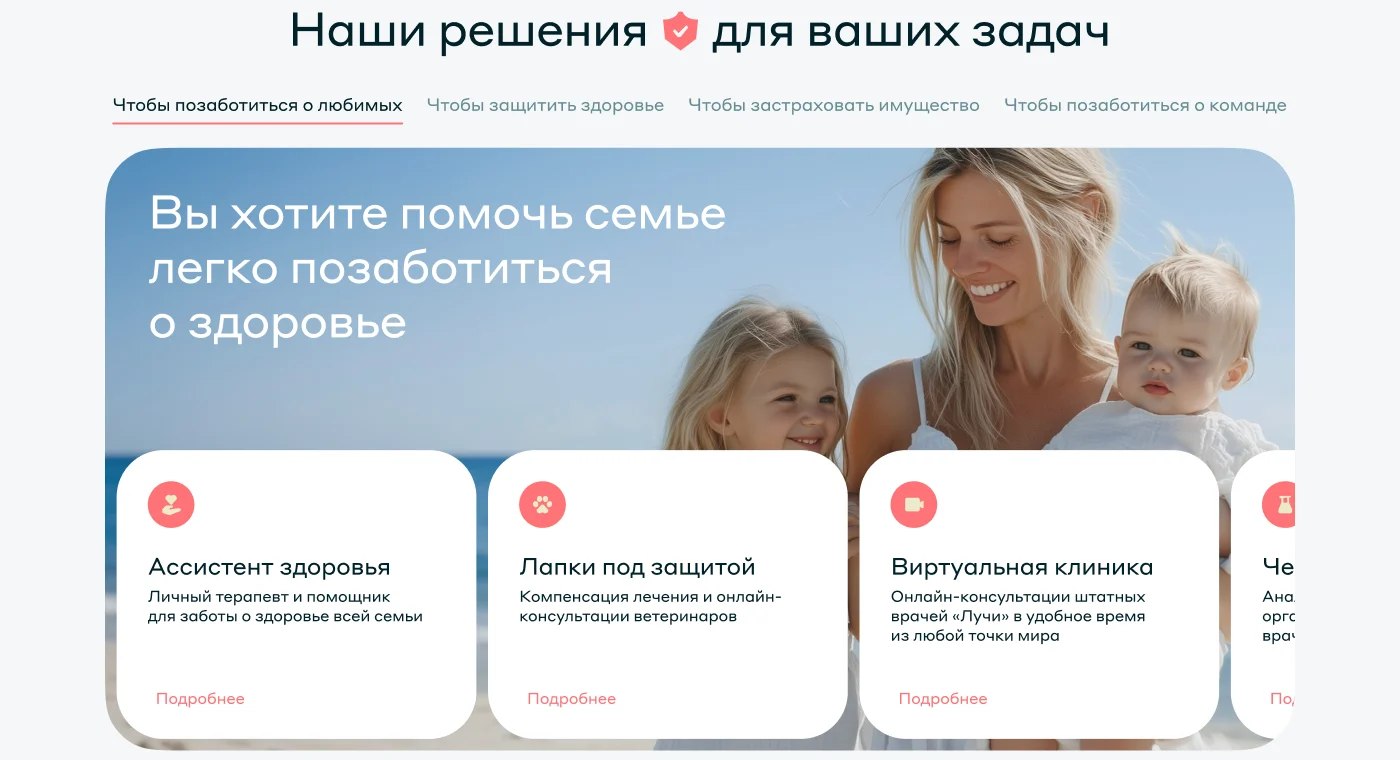
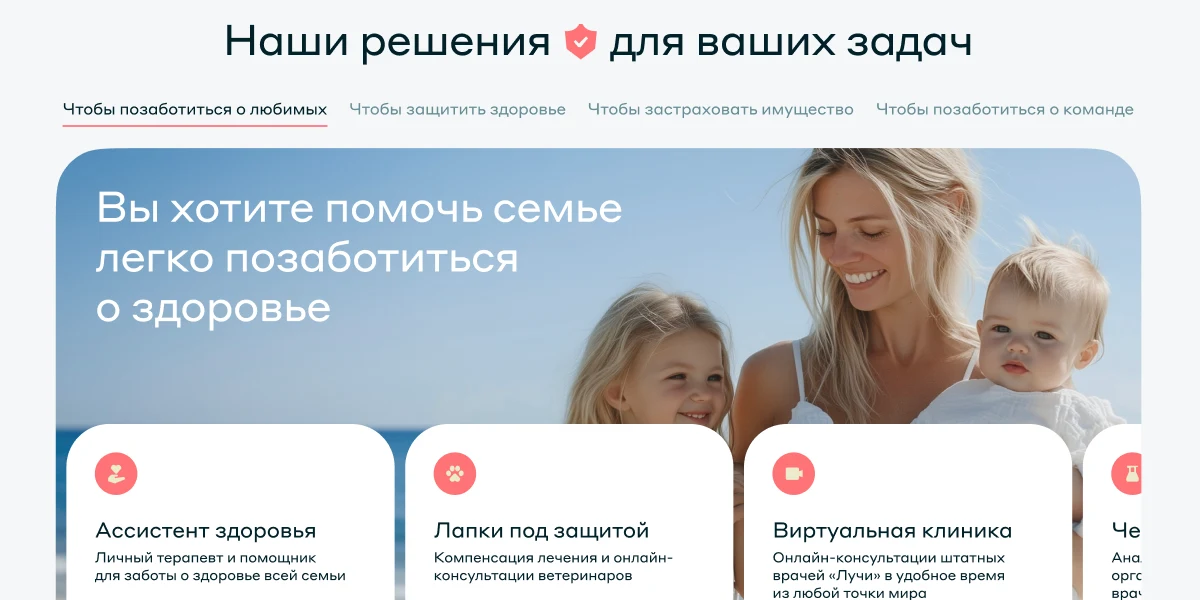
Лучи, задача 02: главная по шагам — сократили хиро, вынесли продукты, блок для бизнеса, отзывы компаний, новости; крупные макеты было / стало и «зачем» у каждого шага
Claude-Session: https://claude.ai/code/session_01Uts8h1CnBzygqHwWGvRqDm

diff --git a/luchi-case.html b/luchi-case.html
@@ -8,7 +8,7 @@
   <link rel="preload" href="assets/fonts/onest-cyrillic.woff2" as="font" type="font/woff2" crossorigin>
   <link rel="stylesheet" href="css/v2.css?v=77">
   <link rel="stylesheet" href="css/case.css?v=73">
-  <link rel="stylesheet" href="css/luchi.css?v=23">
+  <link rel="stylesheet" href="css/luchi.css?v=25">
 </head>
 <body class="theme-lu">
 <div class="wrap">
@@ -156,43 +156,51 @@
       </figure>
     </div>
 
-    <!-- главная: собрали вокруг главного продукта — ДМС для бизнеса; фрагменты макетов «было → стало» -->
+    <!-- главная: собрана вокруг ДМС для бизнеса — шаги по порядку, крупные фрагменты макетов «было → стало» -->
     <div class="lu-block">
       <div class="lu-block-h"><h3 class="lu-sub">Главная: собрала вокруг ДМС для&nbsp;бизнеса</h3></div>
-      <p class="lu-lead">ДМС для&nbsp;бизнеса&nbsp;— самый продаваемый продукт Лучей. На&nbsp;старой главной он&nbsp;прятался в&nbsp;4‑м табе карусели. Я&nbsp;убрала всё лишнее и&nbsp;добавила то, что&nbsp;помогает HR выбрать страховую.</p>
+      <p class="lu-lead">ДМС для&nbsp;бизнеса&nbsp;— самый продаваемый продукт Лучей. Старая главная открывалась огромной обложкой, а&nbsp;продукты прятались в&nbsp;табах. Я&nbsp;убрала лишнее и&nbsp;шаг за&nbsp;шагом собрала страницу вокруг того, что&nbsp;нужно HR.</p>
       <div class="lu-kpis">
         <div class="lu-kpi"><b>−52%</b><span>длина страницы: было ~15&nbsp;экранов скролла, стало&nbsp;~7</span></div>
         <div class="lu-kpi"><b>1<small>клик</small></b><span>до&nbsp;ДМС для&nbsp;бизнеса с&nbsp;первого экрана</span></div>
         <div class="lu-kpi"><b>11→8</b><span>блоков: убрала декоративные блоки и&nbsp;дубли</span></div>
       </div>
 
-      <div class="lu-row">
-        <div class="lu-row-t"><span class="n">01</span><h4>ДМС для&nbsp;бизнеса&nbsp;— на&nbsp;первом экране</h4><p>Было: 4‑й таб «Чтобы позаботиться о&nbsp;команде». Стало: первая карточка под&nbsp;баннером.</p></div>
+      <div class="lu-step">
+        <div class="lu-step-h"><div class="t"><span class="n">01</span><h4>Сократила хиро-баннер</h4></div><p>Огромная обложка занимала весь первый экран и&nbsp;ничего не&nbsp;давала. Теперь баннер компактный, и&nbsp;сразу видно, что&nbsp;ниже есть продукты и&nbsp;отзывы.</p></div>
         <div class="lu-cmp">
-          <figure class="was"><img src="assets/img/luchi/main/old-path.webp" alt="Старая главная: продукты в табах и карусели" loading="lazy" decoding="async"><span class="lab">Было</span></figure>
-          <figure class="now"><img src="assets/img/luchi/main/new-path.webp" alt="Новая главная: баннер и 4 карточки, первая — ДМС для бизнеса" loading="lazy" decoding="async"><span class="lab">Стало</span></figure>
+          <figure class="was"><div class="img"><img src="assets/img/luchi/main/old-fs.webp" alt="Первый экран старой главной: обложка на весь экран" loading="lazy" decoding="async"></div><figcaption><span class="lab">Было</span>Обложка на&nbsp;весь экран</figcaption></figure>
+          <figure class="now"><div class="img"><img src="assets/img/luchi/main/new-fs.webp" alt="Первый экран новой главной: компактный баннер, продукты и начало отзывов" loading="lazy" decoding="async"></div><figcaption><span class="lab">Стало</span>Баннер, продукты и&nbsp;начало отзывов</figcaption></figure>
         </div>
       </div>
 
-      <div class="lu-row">
-        <div class="lu-row-t"><span class="n">02</span><h4>Отдельный блок для&nbsp;бизнеса</h4><p>Условие сразу на&nbsp;карточке и&nbsp;понятное действие «Рассчитать тариф» вместо «Подробнее».</p></div>
+      <div class="lu-step">
+        <div class="lu-step-h"><div class="t"><span class="n">02</span><h4>Вынесла главные продукты под&nbsp;баннер</h4></div><p>Чтобы не&nbsp;идти в&nbsp;каталог: 4&nbsp;карточки ведут в&nbsp;продукт за&nbsp;1&nbsp;клик. ДМС для&nbsp;бизнеса&nbsp;— первым, потому что&nbsp;это главный продукт и&nbsp;его должны найти сразу.</p></div>
+        <div class="lu-cmp r2">
+          <figure class="was"><div class="img"><img src="assets/img/luchi/main/old-path.webp" alt="Старый блок «Наши решения»: табы и карусель" loading="lazy" decoding="async"></div><figcaption><span class="lab">Было</span>Табы и&nbsp;карусель во&nbsp;втором блоке, бизнес&nbsp;— в&nbsp;4‑м табе</figcaption></figure>
+          <figure class="now"><div class="img"><img src="assets/img/luchi/main/new-cards.webp" alt="Новый первый экран: баннер и 4 карточки продуктов, ДМС для бизнеса первой" loading="lazy" decoding="async"></div><figcaption><span class="lab">Стало</span>4&nbsp;входа под&nbsp;баннером, ДМС для&nbsp;бизнеса первой</figcaption></figure>
+        </div>
+      </div>
+
+      <div class="lu-step">
+        <div class="lu-step-h"><div class="t"><span class="n">03</span><h4>Добавила отдельный блок для&nbsp;бизнеса</h4></div><p>Для HR, который пролистал ниже: условие «от&nbsp;2&nbsp;сотрудников» сразу на&nbsp;карточке и&nbsp;понятное действие «Рассчитать тариф» вместо «Подробнее».</p></div>
         <div class="lu-cmp one">
-          <figure class="now"><img src="assets/img/luchi/main/new-biz.webp" alt="Блок «Решение ваших бизнес-задач»: ДМС для бизнеса и Платформа здоровья" loading="lazy" decoding="async"><span class="lab">Новый блок</span></figure>
+          <figure class="now"><div class="img"><img src="assets/img/luchi/main/new-biz.webp" alt="Блок «Решение ваших бизнес-задач»: ДМС для бизнеса и Платформа здоровья" loading="lazy" decoding="async"></div><figcaption><span class="lab">Новый блок</span>ДМС для&nbsp;бизнеса и&nbsp;Платформа здоровья</figcaption></figure>
         </div>
       </div>
 
-      <div class="lu-row">
-        <div class="lu-row-t"><span class="n">03</span><h4>Отзывы компаний&nbsp;— сразу после первого экрана</h4><p>HR из&nbsp;реальных компаний с&nbsp;должностью и&nbsp;видео. Раньше отзывы стояли на&nbsp;середине страницы.</p></div>
+      <div class="lu-step">
+        <div class="lu-step-h"><div class="t"><span class="n">04</span><h4>Добавила отзывы компаний</h4></div><p>HR должны видеть, что&nbsp;с&nbsp;нами работают известные компании и&nbsp;они довольны. Истории с&nbsp;именем, должностью и&nbsp;видео стоят сразу после первого экрана.</p></div>
         <div class="lu-cmp one">
-          <figure class="now"><img src="assets/img/luchi/main/new-rev.webp" alt="Блок «Истории успеха наших клиентов»" loading="lazy" decoding="async"><span class="lab">Второй блок</span></figure>
+          <figure class="now"><div class="img"><img src="assets/img/luchi/main/new-rev.webp" alt="Блок «Истории успеха наших клиентов»" loading="lazy" decoding="async"></div><figcaption><span class="lab">Новый блок</span>Genotek, Faberlic, HRlink, TIMELESS, Cloud.ru</figcaption></figure>
         </div>
       </div>
 
-      <div class="lu-row">
-        <div class="lu-row-t"><span class="n">04</span><h4>Новости о&nbsp;компании вместо lifestyle‑статей</h4><p>Партнёрства и&nbsp;публикации в&nbsp;СМИ показывают масштаб. Переключатель ведёт в&nbsp;блог.</p></div>
+      <div class="lu-step">
+        <div class="lu-step-h"><div class="t"><span class="n">05</span><h4>Заменила статьи новостями о&nbsp;компании</h4></div><p>Показываем, что&nbsp;Лучи развиваются и&nbsp;активны: партнёрства с&nbsp;Т‑Банком и&nbsp;«Точкой», публикации в&nbsp;Forbes. Это убедительнее статей про&nbsp;SPF. Переключатель ведёт в&nbsp;блог.</p></div>
         <div class="lu-cmp">
-          <figure class="was"><img src="assets/img/luchi/main/old-blog.webp" alt="Старый блок: статьи про SPF и капли от насморка" loading="lazy" decoding="async"><span class="lab">Было</span></figure>
-          <figure class="now"><img src="assets/img/luchi/main/new-news.webp" alt="Новый блок: новости о компании из СМИ" loading="lazy" decoding="async"><span class="lab">Стало</span></figure>
+          <figure class="was"><div class="img"><img src="assets/img/luchi/main/old-blog.webp" alt="Старый блок: статьи про SPF и капли от насморка" loading="lazy" decoding="async"></div><figcaption><span class="lab">Было</span>Lifestyle‑статьи</figcaption></figure>
+          <figure class="now"><div class="img"><img src="assets/img/luchi/main/new-news.webp" alt="Новый блок: новости о компании из СМИ" loading="lazy" decoding="async"></div><figcaption><span class="lab">Стало</span>Новости о&nbsp;компании и&nbsp;переход в&nbsp;блог</figcaption></figure>
         </div>
       </div>
 

diff --git a/css/luchi.css b/css/luchi.css
@@ -321,38 +321,42 @@
 
 /* =========================================================
    Задача 02 · «Главная: собрала вокруг ДМС для бизнеса»
-   Цифры + строки «текст слева · фрагменты макетов было/стало справа»
+   Шаги по порядку: заголовок + «зачем», под ними крупно макеты было / стало
    ========================================================= */
 .lu-kpi b small{margin-left:6px;font-size:28px;letter-spacing:-.02em}
 .lu-lead{margin:0;max-width:40em;font:400 18px/1.5 var(--font);color:var(--ink-2)}
-.lu-row{display:grid;grid-template-columns:minmax(0,1fr) minmax(0,2.4fr);gap:var(--s-5);align-items:center;
-  padding:28px;border-radius:var(--r-in);background:var(--chip)}
-.lu-row-t{display:flex;flex-direction:column;gap:var(--s-2)}
-.lu-row-t .n{font:var(--t-caption);letter-spacing:.06em;color:var(--lu-ink)}
-.lu-row-t h4{margin:0;font:500 20px/1.3 var(--font);letter-spacing:-.01em;color:var(--ink);text-wrap:balance}
-.lu-row-t p{margin:0;font:400 15px/1.45 var(--font);color:var(--ink-2)}
-.lu-cmp{display:grid;grid-template-columns:minmax(0,1fr) minmax(0,1fr);gap:12px}
+.lu-step{padding:32px;border-radius:var(--r-in);background:var(--chip);display:flex;flex-direction:column;gap:var(--s-5)}
+.lu-step-h{display:grid;grid-template-columns:minmax(0,1fr) minmax(0,1.3fr);gap:var(--s-6);align-items:start}
+.lu-step-h .t{display:flex;flex-direction:column;gap:var(--s-2)}
+.lu-step-h .n{font:var(--t-caption);letter-spacing:.06em;color:var(--lu-ink)}
+.lu-step-h h4{margin:0;font:500 24px/1.2 var(--font);letter-spacing:-.02em;color:var(--ink);text-wrap:balance}
+.lu-step-h p{margin:0;padding-top:22px;font:400 17px/1.5 var(--font);color:var(--ink-2)}
+.lu-cmp{display:grid;grid-template-columns:minmax(0,1fr) minmax(0,1fr);gap:var(--s-3)}
 .lu-cmp.one{grid-template-columns:1fr}
-.lu-cmp figure{position:relative;margin:0;overflow:hidden;border-radius:20px;background:#fff;aspect-ratio:2/1;box-shadow:0 1px 2px rgba(15,20,20,.05)}
-.lu-cmp.one figure{aspect-ratio:auto}
+.lu-cmp figure{margin:0;display:flex;flex-direction:column;gap:10px}
+.lu-cmp .img{position:relative;overflow:hidden;border-radius:20px;background:#fff;aspect-ratio:16/10;box-shadow:0 1px 2px rgba(15,20,20,.05)}
+.lu-cmp.one .img{aspect-ratio:auto}
+.lu-cmp.r2 .img{aspect-ratio:2/1}
 .lu-cmp img{display:block;width:100%;height:100%;object-fit:cover;object-position:top left}
 .lu-cmp.one img{height:auto}
 .lu-cmp .was img{filter:saturate(.4);opacity:.85;transition:filter .35s,opacity .35s}
-.lu-row:hover .lu-cmp .was img{filter:none;opacity:1}
-.lu-cmp .lab{position:absolute;right:10px;top:10px;padding:5px 10px;border-radius:999px;font:var(--t-caption);letter-spacing:.06em;text-transform:uppercase;
-  background:rgba(15,20,20,.72);color:#fff;-webkit-backdrop-filter:blur(8px);backdrop-filter:blur(8px)}
-.lu-cmp .now .lab{background:var(--lu)}
+.lu-step:hover .lu-cmp .was img{filter:none;opacity:1}
+.lu-cmp .lab{flex:none;padding:5px 10px;border-radius:999px;font:var(--t-caption);letter-spacing:.06em;text-transform:uppercase;background:rgba(15,20,20,.08);color:var(--ink-3)}
+.lu-cmp .now .lab{background:var(--lu);color:#fff}
+.lu-cmp figcaption{display:flex;align-items:center;gap:10px;padding:0 4px;font:400 15px/1.4 var(--font);color:var(--ink-3)}
+.lu-cmp .now figcaption{color:var(--ink-2)}
 .lu-also{margin:0;padding:0 4px;font:400 15px/1.5 var(--font);color:var(--ink-3)}
 .lu-also b{font-weight:500;color:var(--ink-2)}
-@media (max-width:1100px) and (min-width:761px){ .lu-row{grid-template-columns:1fr;gap:var(--s-4)} }
+@media (max-width:1100px) and (min-width:761px){ .lu-step-h{grid-template-columns:1fr;gap:var(--s-3)} .lu-step-h p{padding-top:0} }
 @media (max-width:760px){
   .lu-lead{font-size:15px}
-  .lu-row{grid-template-columns:1fr;gap:var(--s-3);padding:16px 16px 16px}
-  .lu-row-t{padding:4px 4px 0}
-  .lu-row-t h4{font-size:18px}
-  .lu-row-t p{font-size:14px}
-  .lu-cmp{grid-template-columns:1fr;gap:8px}
-  .lu-cmp figure{border-radius:16px}
+  .lu-step{padding:20px 16px;gap:var(--s-4)}
+  .lu-step-h{grid-template-columns:1fr;gap:var(--s-2);padding:0 4px}
+  .lu-step-h h4{font-size:20px}
+  .lu-step-h p{padding-top:0;font-size:14px;line-height:1.45}
+  .lu-cmp{grid-template-columns:1fr;gap:var(--s-4)}
+  .lu-cmp .img{border-radius:16px}
+  .lu-cmp figcaption{font-size:13px}
   .lu-kpi b small{font-size:16px;margin-left:4px}
   .lu-also{font-size:14px}
 }
